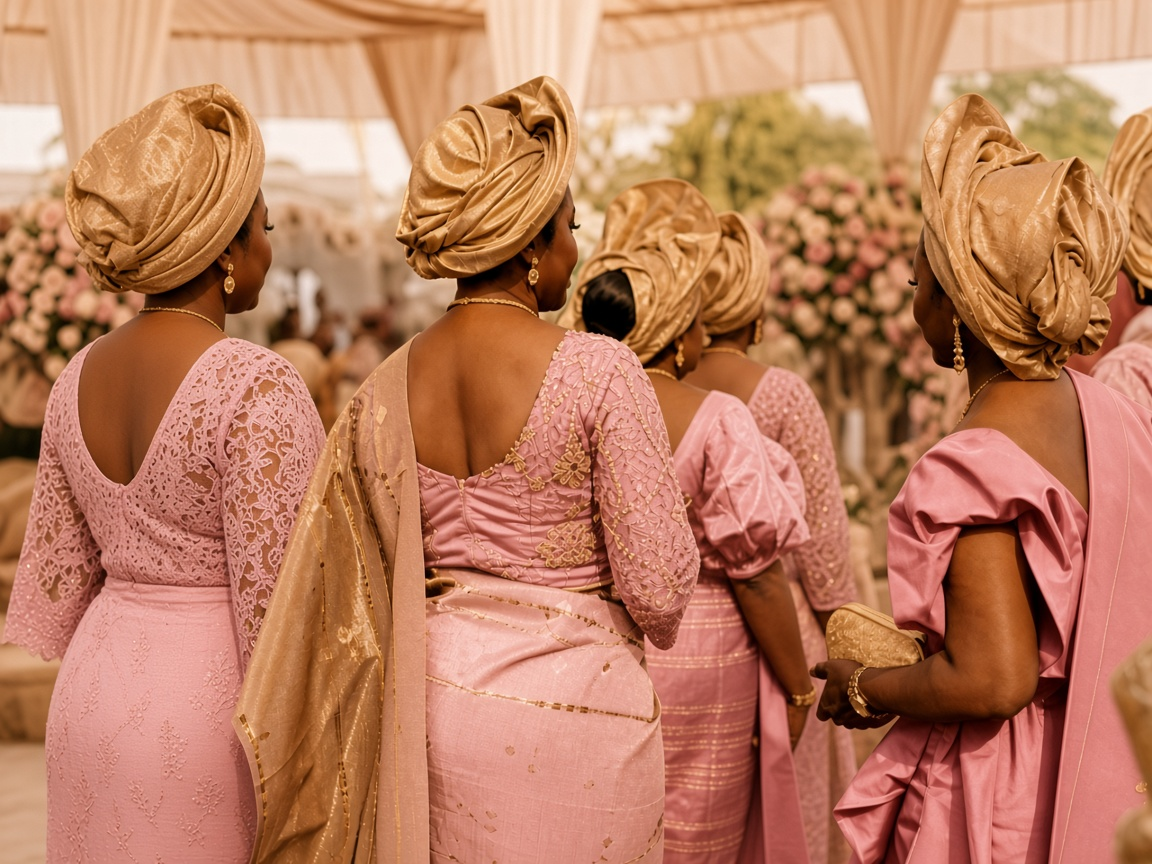
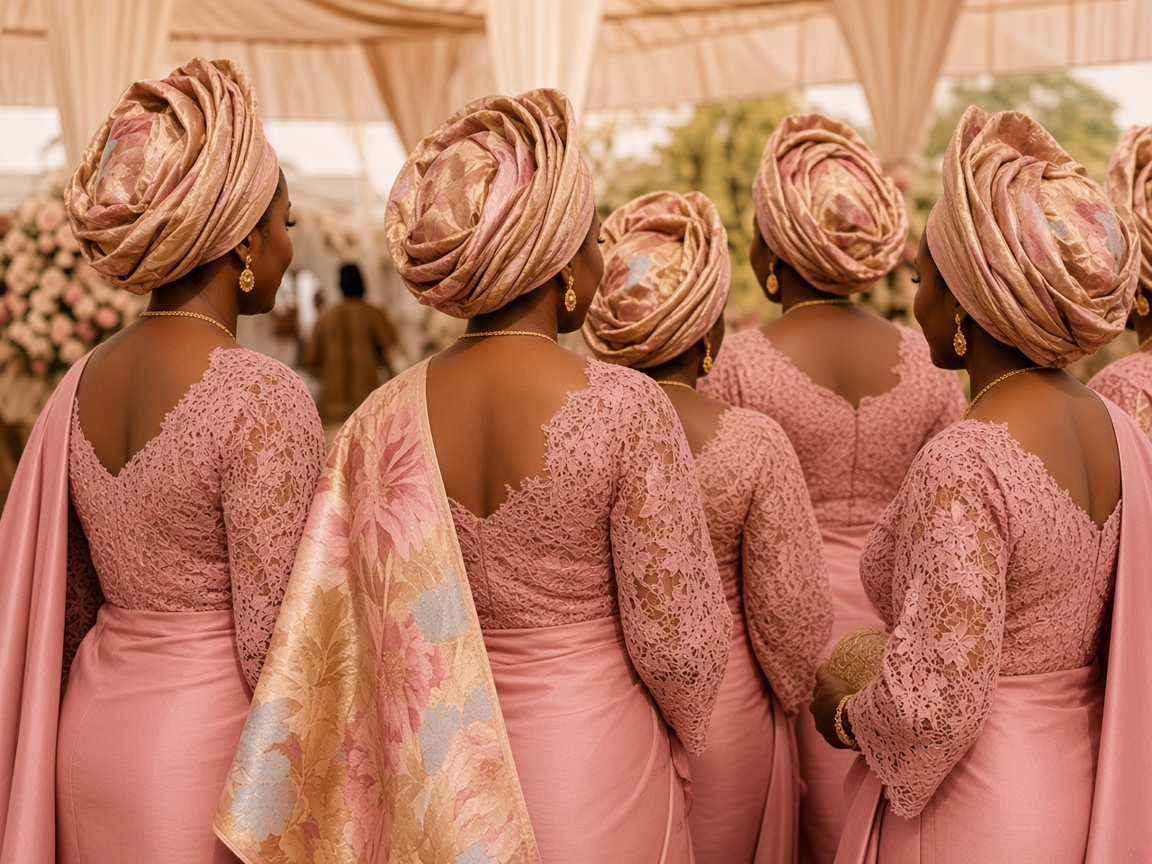
feat: update wedding content descriptions, add new images, and enhance Section component

diff --git a/src/content/wedding.ts b/src/content/wedding.ts
@@ -186,7 +186,7 @@ export const weddingContent: WeddingContent = {
         includes: ["Blush pink fabric cut to your chosen yardage", "Matching gele where selected"],
         photo: {
           src: "/images/asoebi-ladies.jpg",
-          alt: "Ladies in blush pink Aso Ebi with caramel gold gele",
+          alt: "Ladies in blush pink Aso Ebi with floral brocade gele",
         },
         tiers: [
           { id: "ladies-3-gele", label: "3 yards & Gele", price: 55000 },
@@ -204,7 +204,7 @@ export const weddingContent: WeddingContent = {
         includes: ["Blush pink fabric cut to your chosen yardage", "Matching cap where selected"],
         photo: {
           src: "/images/asoebi-gents.jpg",
-          alt: "Gentlemen in blush pink Aso Ebi agbada with matching cap",
+          alt: "Gentlemen in blush pink Aso Ebi agbada with floral brocade cap",
         },
         tiers: [
           { id: "gents-4-cap", label: "4 yards with Cap", price: 40000 },

diff --git a/src/components/ui/Section.tsx b/src/components/ui/Section.tsx
@@ -45,7 +45,9 @@ export function Section({
               headerClassName,
             )}
           >
-            {eyebrow ? <p className="eyebrow">{eyebrow}</p> : null}
+            {eyebrow ? (
+              <p className={cn("eyebrow", tone === "deep" && "text-ivory")}>{eyebrow}</p>
+            ) : null}
             {title ? (
               <h2
                 className={cn(
